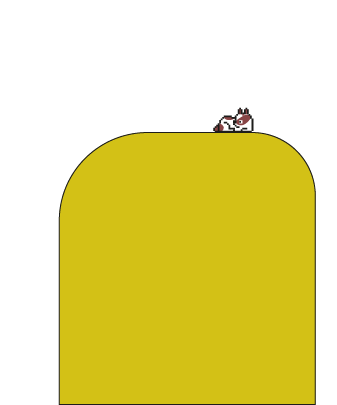
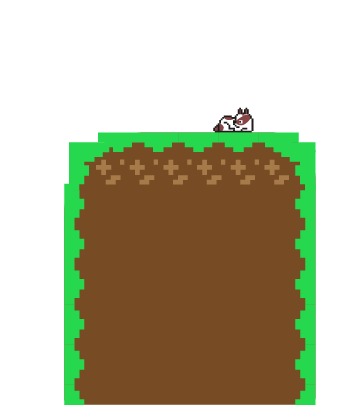
creo que con esto salgo a la cancha re en punga

diff --git a/index.html b/index.html
@@ -23,7 +23,7 @@
 <div class="frontPage">
     <!----------------TITLE------------------------------->
     <div class="titleBox">
-      <img src="http://res.cloudinary.com/adamlancon/image/upload/v1506383159/megamanfullname_toxqvk.png" />
+      <img src="img/logo.png" />
       <p>DISEÑADOR | DESARROLLADOR WEB</p>
     </div>
   
@@ -60,8 +60,8 @@
   <div class="aboutPage">
     <div class="aboutTab">
       <span id="close">&times</span>
-      <img src="http://res.cloudinary.com/adamlancon/image/upload/v1505344317/untitled_uevddf.svg" />
-      <img id="adam2" src="http://res.cloudinary.com/adamlancon/image/upload/v1506463808/untitled_11_zprmmk.svg" />
+      <img src="img/img.jpg" />
+      <!-- <img id="adam2" src="http://res.cloudinary.com/adamlancon/image/upload/v1506463808/untitled_11_zprmmk.svg" /> -->
       <p>Hola! Soy Ezequiel, diseñador y desarrollador webEstoy buscando nuevas oportunidades laborales en el ámbito laboral IT y puestos de diseño.<br>
         <u>Como profesional, busco proyectos innovadores que solucionen problemáticas de forma estética y funcional, para unificar ambos universos.</u></p>
     </div>
@@ -74,13 +74,13 @@
       <div class="skillWords">
       <p>Manejo un amplio espectro de herramientas, ya que formé parte de varios grupos de trabajo, pero me parece lo más importante justamente el buen dialogo en el grupo y trabajar de manera organizada.</p></div>
       <div class="languages">
-      <img id="html" src="http://res.cloudinary.com/adamlancon/image/upload/v1506488892/html_8bit_kdr2jj.png">
-      <img id="css" src="http://res.cloudinary.com/adamlancon/image/upload/v1506488998/css_8bit_nblckk.png">
-      <img id="javascript" src="http://res.cloudinary.com/adamlancon/image/upload/v1506487779/html%205.png">
-      <img id="jquery" src="http://res.cloudinary.com/adamlancon/image/upload/v1506488691/download_v6ldqm.png">
-      <img id="bootstrap" src="http://res.cloudinary.com/adamlancon/image/upload/v1506489839/bootstrap_8bit_o9wecm.png">
-      <img id="ajax" src="http://res.cloudinary.com/adamlancon/image/upload/v1506490579/ajaxJson8bit_deirpq.png">
-      <img id="react" src="http://res.cloudinary.com/adamlancon/image/upload/v1506492098/react_8bit_sx7wq3.png">
+      <img id="html" src="img/skills-50.png">
+      <img id="css" src="img/skills-51.png">
+      <img id="javascript" src="img/skills-52.png">
+      <img id="jquery" src="img/skills-53.png">
+      <img id="bootstrap" src="img/skills-54.png">
+      <img id="ajax" src="img/skills-2.png">
+      <img id="react" src="img/skills-3.png">
       </div>
     </div>
   </div>
@@ -92,63 +92,58 @@
       <h1>MIS PROYECTOS</h1>
       <span class="closer">&times</span>
     <div class="first">  
-      <a href="https://www.behance.net/gallery/150403251/Desarrollo-de-branding-Don-Juan" target="blank"><img src="img/untitled_13_dwtlje.jpg"></a>Branding Don Juan
+      <a href="https://www.behance.net/gallery/150403251/Desarrollo-de-branding-Don-Juan" target="blank"><img src="img/proyecto-3.jpg"></a>Branding Don Juan
     </div>
     <div class="second">
-      <a href="https://www.behance.net/gallery/126572827/Branding-Cortala" target="blank"><img src="http://res.cloudinary.com/adamlancon/image/upload/v1506550169/untitled_14_juave1.svg"></a>Branding Cortala
+      <a href="https://www.behance.net/gallery/126572827/Branding-Cortala" target="blank"><img src="img/proyecto-2.jpg"></a>Branding Cortala
     </div>
     <div class="third">
-      <a href="https://www.get-setters.com/" target="blank"><img src="http://res.cloudinary.com/adamlancon/image/upload/v1506550211/untitled_15_dh3j1b.svg"></a>GET SETTERS
+      <a href="https://www.get-setters.com/" target="blank"><img src="img/proyecto-1.jpg"></a>GET SETTERS
     </div>
     <div class="fourth">
-      <a href="https://www.theplannerteam.com/" target="blank"><img src="http://res.cloudinary.com/adamlancon/image/upload/v1506550238/untitled_16_z36tzz.svg"></a>Planner Team
+      <a href="https://www.theplannerteam.com/" target="blank"><img src="img/proyecto-4.jpg"></a>Planner Team
     </div>
     <div class="fifth">
-      <a href="https://ezeweb.github.io/COSTOS_3D_/" target="blank"><img src="http://res.cloudinary.com/adamlancon/image/upload/v1505344317/untitled_uevddf.svg"></a>Calculadora de costos 3D
+      <a href="https://ezeweb.github.io/COSTOS_3D_/" target="blank"><img src="img/proyecto-6.jpg"></a>Calculadora de costos 3D
     </div>
     <div class="sixth">
-      <a href="https://bongoestudio.com/" target="blank"><img src="http://res.cloudinary.com/adamlancon/image/upload/v1506550258/untitled_17_pfa4iq.svg"></a>BONGO estudio
+      <a href="https://bongoestudio.com/" target="blank"><img src="img/proyecto-5.jpg"></a>BONGO estudio
     </div>
-    <div class="seventh">
+    <!-- <div class="seventh">
       <a href="https://codepen.io/AJLuigi09/full/pRqLdy/" target="blank"><img src="http://res.cloudinary.com/adamlancon/image/upload/v1506550278/untitled_18_kez9uy.svg"></a>twitch.tv online offline
     </div>
-      <div class="eighth">
+    <div class="eighth">
       <a href="#" target="blank"><img src="http://res.cloudinary.com/adamlancon/image/upload/v1506365854/untitled_6_ubbrnf.svg"></a>A little 8bit me
-      </div>
-      <div class="ninth">
+    </div>
+    <div class="ninth">
       <a href="#" target="blank"><img src="http://res.cloudinary.com/adamlancon/image/upload/v1505687761/untitled_1_svv0nx.svg"></a><br>Restaurant's logo
-      </div>
+    </div> -->
     </div>
   </div>
   <!------------------------------START CONTACTS----------------------------------------------------------->
   <div class="contactPage">
-        <div class="contactTab">
+      <div class="contactTab">
             <span class="closing">&times</span>
         <div class="social">
             <div class="facebook">
-                <a href="https://www.facebook.com/adam.lancon" target="blank"><img src="http://res.cloudinary.com/adamlancon/image/upload/v1506577051/facebook_8bit_vfnqr1.png"></a>
-            </div>
-            <div class="twitter">
-                <a href="https://twitter.com/adam_lancon" target="blank"><img src="http://res.cloudinary.com/adamlancon/image/upload/v1506577068/twitter_8bit_hi9cqa.png"></a>
+                <a href="https://www.instagram.com/eze_404_" target="blank"><img src="img/ig.png"></a>
             </div>
             <div class="linkedin">
-                <a href="https://www.linkedin.com/in/adam-lancon-aa5a60132/" target="blank"><img src="http://res.cloudinary.com/adamlancon/image/upload/v1506658863/linkedin_8bit_tx8ylz.png"></a>
+                <a href="https://www.linkedin.com/in/eze-web/" target="blank"><img src="http://res.cloudinary.com/adamlancon/image/upload/v1506658863/linkedin_8bit_tx8ylz.png"></a>
             </div>
-            <div class="codepen">
-                <a href="https://codepen.io/AJLuigi09/" target="blank"><img src="http://res.cloudinary.com/adamlancon/image/upload/v1506577045/codepen_8bit_i8sek6.png"></a></div>
-                <div class="github">
-                    <a href="https://github.com/AJLuigi09" target="blank"> <img src="http://res.cloudinary.com/adamlancon/image/upload/v1506577056/github_8bit_yelotd.png"></a>
-                </div>
-            </div>
-            <div class="words">
-                <p>Si sos un potencial cliente, empleador/a o reclutador/a, ¡No dudes en contactarme! <br>En mi CV están mis datos de contacto, y acá arriba mis redes para que me conozcas más (:</p>
-            </div>
-            <div class="resume">
-                <a target="_blank" href="https://drive.google.com/file/d/1vtoPi6vXlud0CGgRN_TL4qpCzdyWi25b/view?usp=drive_link">
-                <img src="http://res.cloudinary.com/adamlancon/image/upload/v1506665738/pdfclick_8bit_moptcq.png"></a><br>Resume
+            <div class="github">
+              <a href="https://github.com/EZEweb" target="blank"> <img src="http://res.cloudinary.com/adamlancon/image/upload/v1506577056/github_8bit_yelotd.png"></a>
             </div>
         </div>
-    </div>
+        <div class="words">
+            <p>Si sos un potencial cliente, empleador/a o reclutador/a, ¡No dudes en contactarme! <br>En mi CV están mis datos de contacto, y acá arriba mis redes para que me conozcas más (:</p>
+        </div>
+          <div class="resume">
+            <a target="_blank" href="https://drive.google.com/file/d/1vtoPi6vXlud0CGgRN_TL4qpCzdyWi25b/view?usp=drive_link">
+            <img src="img/cv.png"></a><br>CV
+          </div>
+      </div>
+  </div>
 </div>
 </body>
 </html>

diff --git a/styles.css b/styles.css
@@ -2,7 +2,7 @@ html, body {
     background-color: black;
     width: 100%;
     height: 100%;
-    background-image: url("http://res.cloudinary.com/adamlancon/image/upload/v1506452186/untitled_10_kpjcmn.svg");
+    background-image: url("img/fondo.jpg");
     background-size: cover;
     overflow: hidden;
     background-position: center center;
@@ -285,7 +285,7 @@ html, body {
   
   .projectPage {
     display:none;
-    background-image: url("http://res.cloudinary.com/adamlancon/image/upload/v1506500545/megamanselectbackground_uuj0fx.png");
+    background-image: url("img/fondo-2.jpg");
     background-size: 100% 100%;
     background-position: center center;
     background-repeat: no-repeat;
@@ -355,7 +355,7 @@ html, body {
   }
   
   .fourth {
-   grid-area:3/2/4/3;
+    grid-area:3/2/4/3;
     justify-self: center;
   }
   
@@ -446,20 +446,12 @@ html, body {
     grid-area: 1/1/2/2;
   }
   
-  .twitter {
+  .github {
     grid-area: 1/2/2/3;
   }
   
-  .codepen {
-    grid-area: 1/3/2/4;
-  }
-  
-  .github {
-    grid-area: 1/5/2/6;
-  }
-  
   .linkedin {
-    grid-area: 1/4/2/5;
+    grid-area:1/3/2/4;
   }
   
   .closing {
